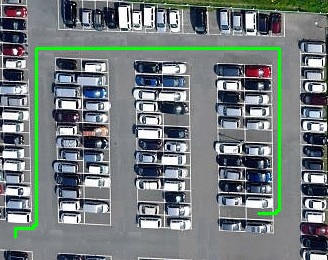
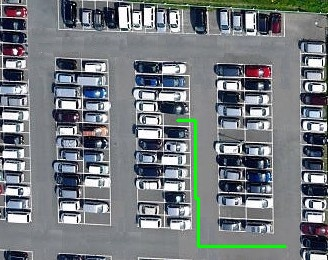
Update: fixed integration bugs

Changed region(s): [[0.0305, 0.1538, 0.8841, 0.9231], [0.5183, 0.4308, 0.8841, 0.9846]]

diff --git a/core_lib/animator.py b/core_lib/animator.py
@@ -5,9 +5,10 @@ import numpy
 from PIL import Image
 
 from core_lib.core import get_config_value
+from core_lib.parking import get_available_spots_regions
 
 parking_base = Image.open("core_lib/media/parking_base.jpg")  # width: 328, height: 260
-car = Image.open("core_lib/media/car_resized.jpg")
+base_car = Image.open("core_lib/media/car_resized.jpg")
 
 
 def get_direction(origin, destination):
@@ -32,6 +33,10 @@ def get_direction(origin, destination):
     return degrees
 
 
+def is_vertical(angle):
+    return -0.0001 < math.sin(angle * math.pi / 180) < 0.0001
+
+
 def animator(coordinates):
     """
     Animates a car trajectory in a parking lot, given a set of points.
@@ -45,29 +50,30 @@ def animator(coordinates):
     x_scale = get_config_value("x_scale")
     y_scale = get_config_value("y_scale")
     offset = (5, 11)  # car size is (10,24)
-
     # invert scaled values and place pixel at car's center
     for point in coordinates:
-        rescaled_coordinates.append(
-            (int(point[0] / x_scale) - offset[0], int(point[1] / y_scale) - offset[1])
-        )
+        rescaled_coordinates.append((int(point[0] / x_scale), int(point[1] / y_scale)))
 
     # initial car position
-    current_direction = get_direction(rescaled_coordinates[0], rescaled_coordinates[1])
-    car = car.rotate(current_direction + 90, expand=1)
+    direction = get_direction(rescaled_coordinates[0], rescaled_coordinates[1])
+    car = base_car.rotate(direction + 90, expand=1)
 
     for i in range(len(rescaled_coordinates)):
         if i > 0:
-            degrees = get_direction(
+            direction = get_direction(
                 rescaled_coordinates[i - 1], rescaled_coordinates[i]
             )
-            car = car.rotate(
-                degrees - current_direction, expand=1
+            car = base_car.rotate(
+                direction + 90, expand=1
             )  # rotates the car depending on the angle
-            current_direction = degrees
 
         back_im = parking_base.copy()
-        back_im.paste(car, rescaled_coordinates[i])
+        offset = (5, 11) if is_vertical(direction) else (11, 5)
+        x, y = (
+            rescaled_coordinates[i][0] - offset[0],
+            rescaled_coordinates[i][1] - offset[1],
+        )
+        back_im.paste(car, (x, y))
         opencv_image = cv2.cvtColor(numpy.array(back_im), cv2.COLOR_RGB2BGR)
 
         cv2.imshow("car_trajectory", opencv_image)

diff --git a/parking-routes.py b/parking-routes.py
@@ -10,15 +10,21 @@ from core_lib.animator import animator
 
 
 def main():
-    get_initial_quadrant_and_direction()
-    get_final_parking_space_coordinates()
-    points = build_path()
-    draw_path(points)
+    while True:
+        get_initial_quadrant_and_direction()
+        get_final_parking_space_coordinates()
+        points = build_path()
+        draw_path(points)
 
-    cv2.imshow("Route", cv2.imread("core_lib/media/output_image.jpg"))
-    animator(points)
-    cv2.waitKey()
-    cv2.destroyAllWindows()
+        cv2.imshow("Route", cv2.imread("core_lib/media/output_image.jpg"))
+        animator(points)
+        while True:
+            key = cv2.waitKey() & 0xFF
+            if key == ord("q"):
+                return
+            elif key == ord("n"):
+                break
+        cv2.destroyAllWindows()
 
 
 if __name__ == "__main__":

diff --git a/core_lib/parking.py b/core_lib/parking.py
@@ -73,23 +73,14 @@ def get_final_parking_space_coordinates():
     input_image = cv2.imread(
         path.join(path.dirname(__file__), "media", "parking_base.jpg")
     )
-    output_image = cv2.imread(
-        path.join(path.dirname(__file__), "media", "route_planner.jpg")
-    )
 
     cv2.namedWindow("input image")
     cv2.setMouseCallback("input image", save_final_mapped_points)
-    cv2.namedWindow("output image")
 
     while True:
-        output_image_copy = output_image.copy()
         initial_coordinates = get_config_value("initial_coordinates")
 
-        if initial_coordinates:
-            cv2.circle(output_image_copy, tuple(initial_coordinates), 1, (0, 0, 255), 2)
-
         cv2.imshow("input image", input_image)
-        cv2.imshow("output image", output_image_copy)
 
         if cv2.waitKey(1) & 0xFF == ord("q"):
             break

diff --git a/core_lib/path_calculator.py b/core_lib/path_calculator.py
@@ -2,6 +2,7 @@ import sys
 import csv
 import numpy as np
 from core_lib.parking import (
+    get_available_spots_regions,
     get_parking_poles_structure,
     get_initial_coordinates_and_direction,
 )
@@ -224,6 +225,9 @@ def build_path():
 
     visited = np.full((height, width), False)
     path = calculate_path((x_initial, y_initial), distances, config, visited)
+    if path[-1] == (41, 73):
+        for i in range(40, 31, -1):
+            path.append((i, 73))
     write_csv(path, "output.csv")
     draw_path(path)
     return path

diff --git a/core_lib/core.py b/core_lib/core.py
@@ -1,3 +1,4 @@
+import cv2
 import json
 from enum import Enum
 from os import path, system, name as os_name
